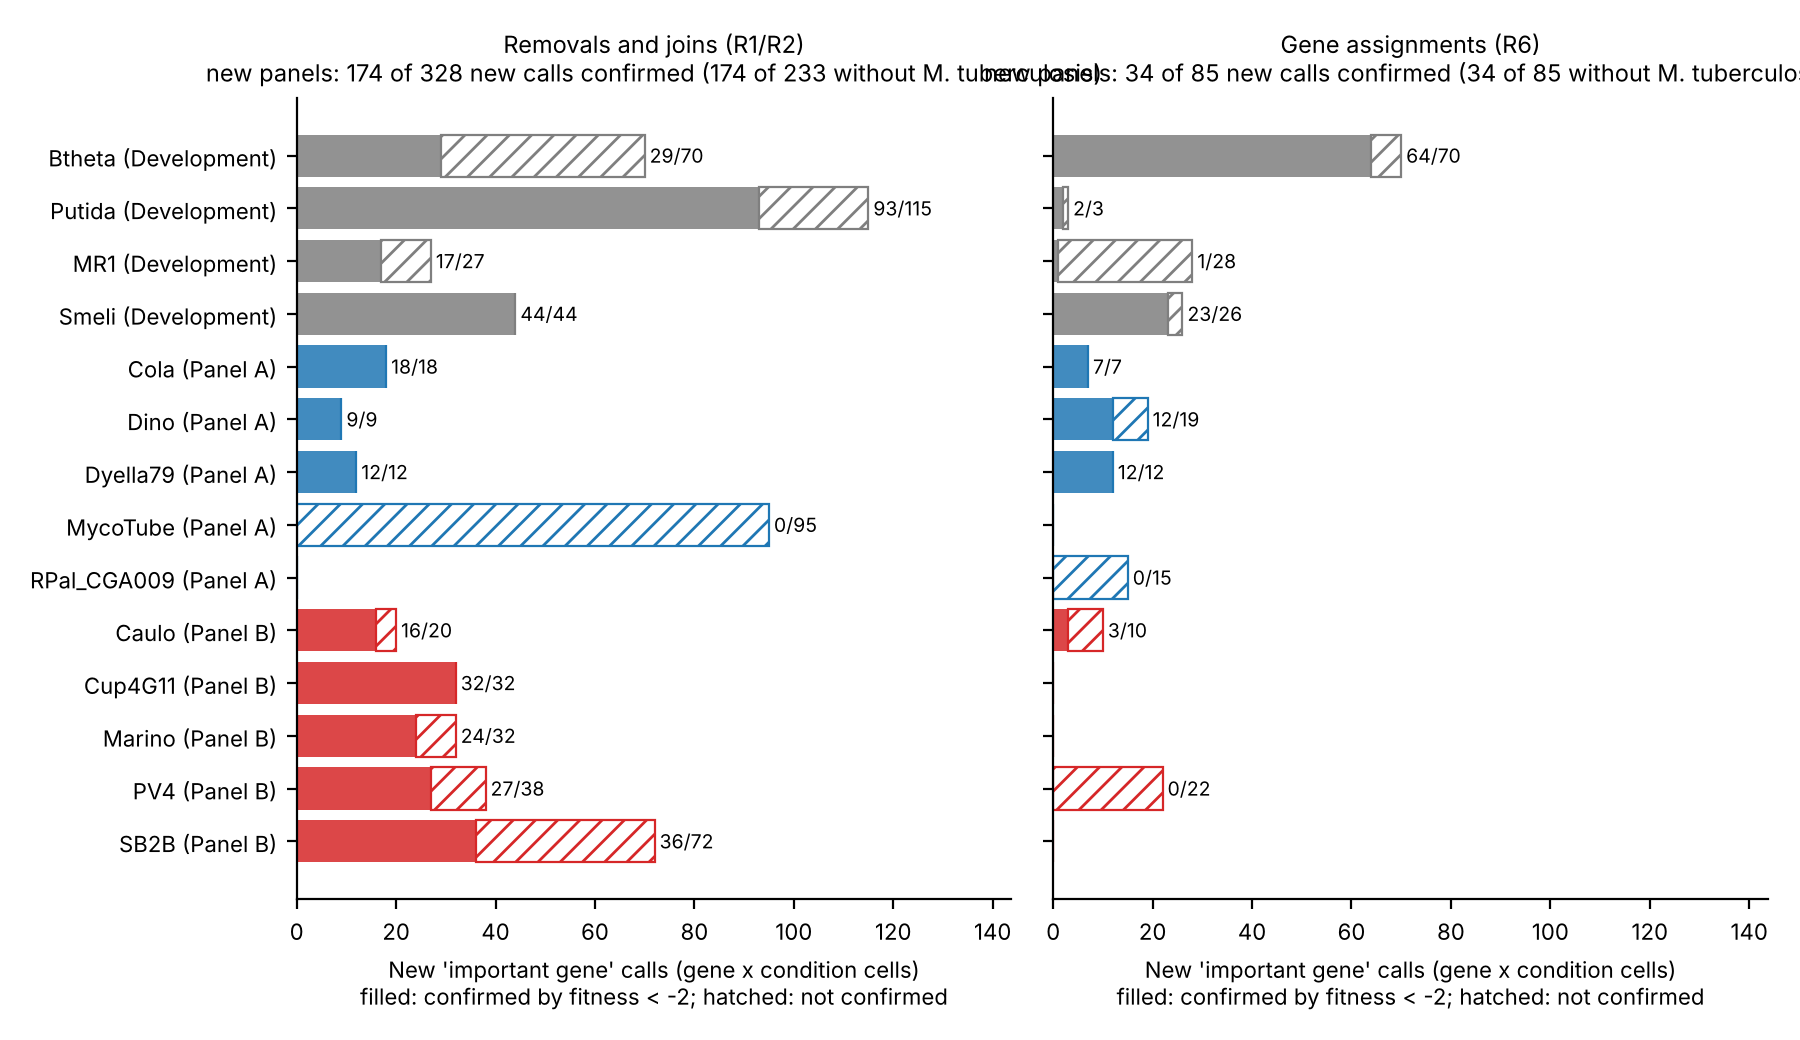
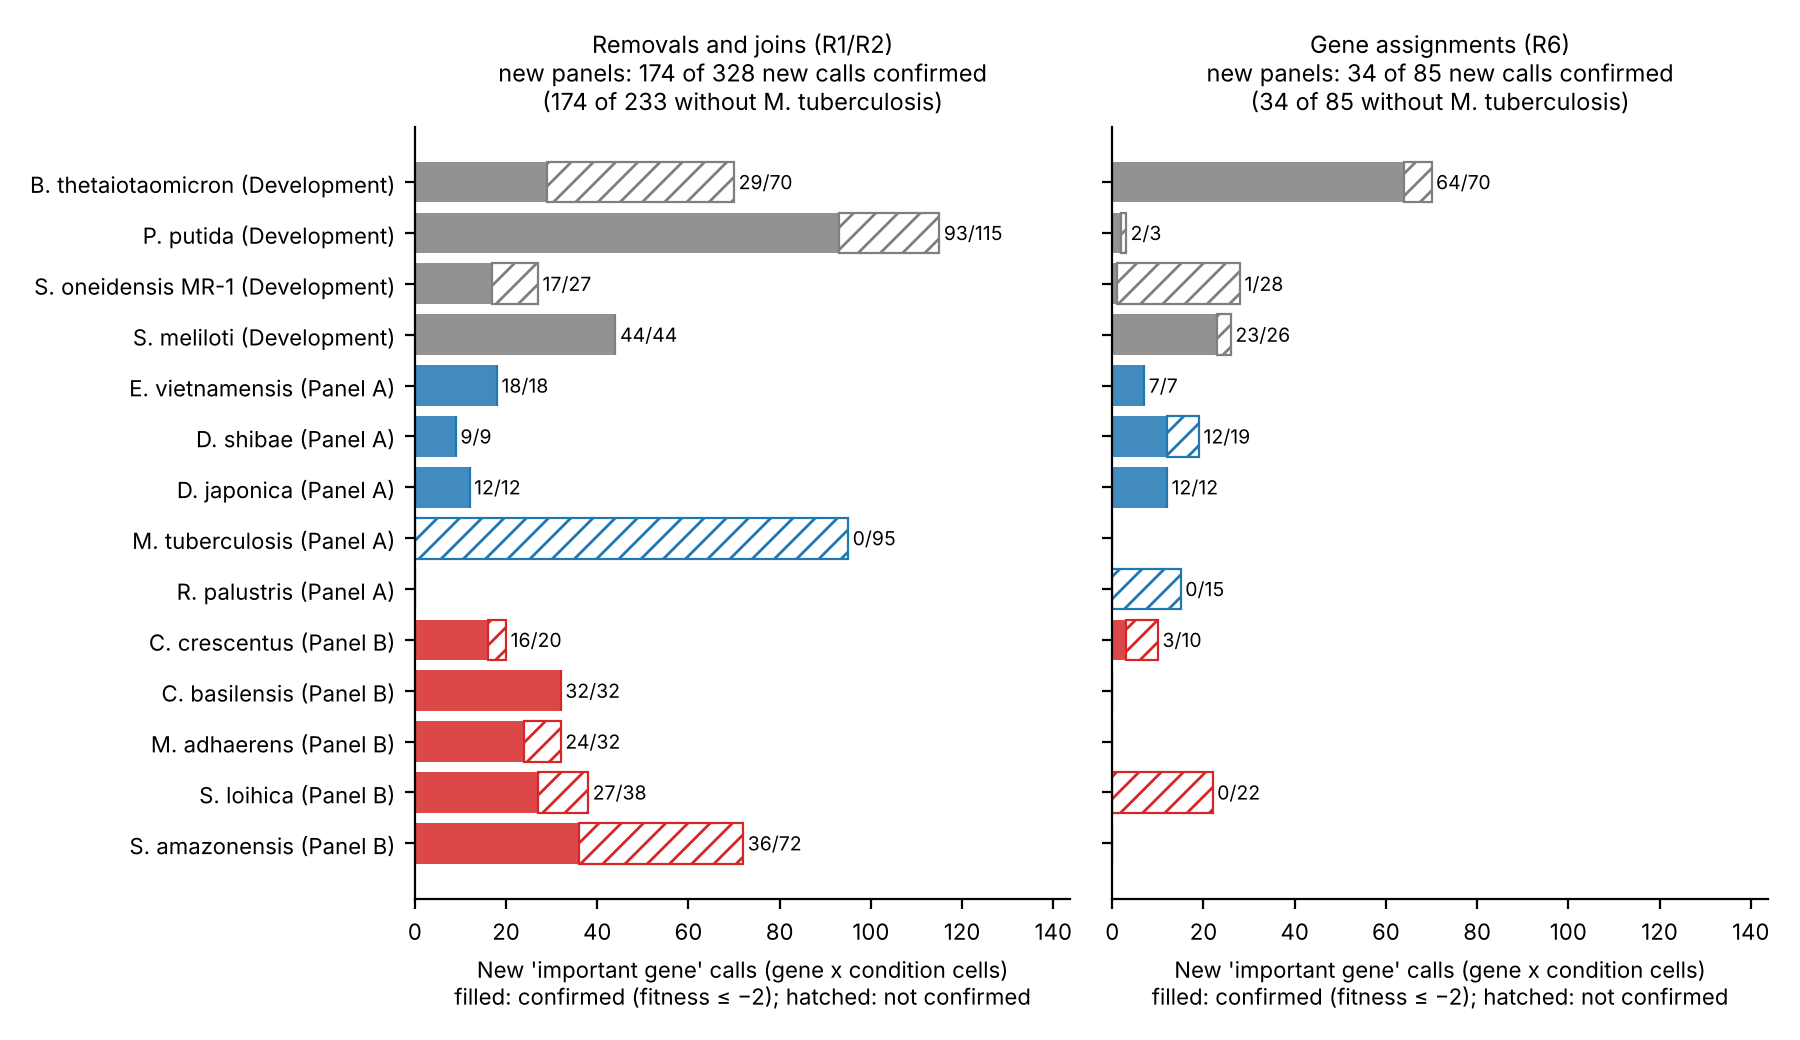
Paper 1 figures: Figure 2 redrawn with the shared colour scheme and organism means; Figure 4 titles no longer overlap
Claude-Session: https://claude.ai/code/session_01KMQQfhQKTXpVja2mGgGu3T

diff --git a/scripts/plot_transfer_paired.py b/scripts/plot_transfer_paired.py
@@ -1,0 +1,109 @@
+"""Figure 2 of the benchmark paper: per-organism paired MCC differences for H1 (U' vs B0) and H2 (M vs U').
+
+Reads only existing results: results/transfer_v1/<role>/paired.json (per-organism differences and gene-bootstrap
+intervals) and aggregate_union.json (organism means and organism-bootstrap intervals), plus the pooled file for
+panels A and B. Colours match Figures 1, 3 and 4 (development grey, panel A blue, panel B red).
+
+Usage: python scripts/plot_transfer_paired.py   -> docs/paper/fig2_paired_differences.png
+"""
+from __future__ import annotations
+
+import json
+import os
+
+ROOT = os.path.dirname(os.path.dirname(os.path.abspath(__file__)))
+R = os.path.join(ROOT, "results", "transfer_v1")
+PHASES = [("development", "Development", ["MR1", "Btheta", "Smeli", "Putida"]),
+          ("evaluation_panel_A", "Panel A", ["Cola", "Dino", "Dyella79", "MycoTube", "RPal_CGA009"]),
+          ("evaluation_panel_B", "Panel B", ["Caulo", "Cup4G11", "Marino", "PV4", "SB2B"])]
+NAMES = {"MR1": "S. oneidensis MR-1", "Btheta": "B. thetaiotaomicron", "Smeli": "S. meliloti", "Putida": "P. putida",
+         "Cola": "E. vietnamensis", "Dino": "D. shibae", "Dyella79": "D. japonica", "MycoTube": "M. tuberculosis",
+         "RPal_CGA009": "R. palustris", "Caulo": "C. crescentus", "Cup4G11": "C. basilensis", "Marino": "M. adhaerens",
+         "PV4": "S. loihica", "SB2B": "S. amazonensis"}
+COLOURS = {"Development": "#7f7f7f", "Panel A": "#1f77b4", "Panel B": "#d62728"}
+PAIRS = [(("B0", "UNQ"), "H1: automatic rules (U′ vs B0)"), (("UNQ", "M"), "H2: blind AI curation (M vs U′)")]
+
+
+def load(path):
+    with open(path) as fh:
+        return json.load(fh)
+
+
+def main() -> None:
+    import matplotlib
+    matplotlib.use("Agg")
+    import matplotlib.pyplot as plt
+
+    rows = []      # (label, phase, kind, {pair: (delta, lo, hi)})
+    for role, phase, orgs in PHASES:
+        paired = load(os.path.join(R, role, "paired.json"))
+        agg = load(os.path.join(R, role, "aggregate_union.json"))
+        for org in orgs:
+            vals = {}
+            for (a, b), _ in PAIRS:
+                hit = [p for p in paired if p["org"] == org and p["A"] == a and p["B"] == b]
+                if hit:
+                    vals[(a, b)] = (hit[0]["union_delta"], *hit[0]["union_delta_ci95"])
+            rows.append((NAMES[org], phase, "organism", vals))
+        means = {}
+        for (a, b), _ in PAIRS:
+            p = [q for q in agg["pairs"] if q["A"] == a and q["B"] == b][0]
+            means[(a, b)] = (p["mean_delta"], *p["organism_bootstrap_ci95"])
+        rows.append((f"{phase}: mean of {len(orgs)}", phase, "mean", means))
+    pooled = load(os.path.join(R, "pooled_panels_A_B_aggregate_union.json"))
+    pm = {}
+    for (a, b), _ in PAIRS:
+        p = [q for q in pooled["pairs"] if q["A"] == a and q["B"] == b][0]
+        pm[(a, b)] = (p["mean_delta"], *p["organism_bootstrap_ci95"])
+    rows.append(("Panels A + B: mean of 10", "Pooled", "pooled", pm))
+
+    fig, axes = plt.subplots(1, 2, figsize=(10, 7.2), sharey=True)
+    n = len(rows)
+    ypos = []
+    y = 0.0
+    for i, (_, phase, kind, _) in enumerate(rows):
+        if i and rows[i - 1][1] != phase:
+            y += 0.6
+        ypos.append(y)
+        y += 1
+    for ax, (pair, title) in zip(axes, PAIRS):
+        for (label, phase, kind, vals), yy in zip(rows, ypos):
+            if pair not in vals:
+                continue
+            d, lo, hi = vals[pair]
+            colour = "black" if kind == "pooled" else COLOURS[phase]
+            marker = "o" if kind == "organism" else "D"
+            size = 5 if kind == "organism" else 7
+            ax.plot([lo, hi], [yy, yy], color=colour, lw=1.4 if kind == "organism" else 2.2,
+                    alpha=0.85 if kind == "organism" else 1)
+            ax.plot([d], [yy], marker=marker, color=colour, ms=size)
+        ax.axvline(0, color="black", lw=0.8)
+        ax.set_title(title, fontsize=10)
+        ax.set_xlabel("Paired MCC difference, union of genes\n(organisms: 95% gene bootstrap; means: 95% organism bootstrap)",
+                      fontsize=8.5)
+        ax.tick_params(axis="x", labelsize=8)
+        for s in ("top", "right"):
+            ax.spines[s].set_visible(False)
+    axes[0].set_yticks(ypos)
+    labels = []
+    for label, phase, kind, _ in rows:
+        labels.append(label if kind != "organism" else label)
+    axes[0].set_yticklabels(labels, fontsize=8.5)
+    for tick, (label, phase, kind, _) in zip(axes[0].get_yticklabels(), rows):
+        if kind == "organism":
+            tick.set_fontstyle("italic")
+        else:
+            tick.set_fontweight("bold")
+        tick.set_color("black" if kind == "pooled" else COLOURS[phase])
+    axes[0].invert_yaxis()
+    fig.text(0.01, 0.01, "Not evaluable under the frozen rules: D. suillum (panel A, gap-fill), "
+             "D. vulgaris Miyazaki F (panel B, reference condition). Development organisms are retrospective.",
+             fontsize=7.5, color="#555555")
+    fig.tight_layout(rect=(0, 0.03, 1, 1))
+    out = os.path.join(ROOT, "docs", "paper", "fig2_paired_differences.png")
+    fig.savefig(out, dpi=200)
+    print(out)
+
+
+if __name__ == "__main__":
+    main()

diff --git a/scripts/plot_curation_precision.py b/scripts/plot_curation_precision.py
@@ -74,12 +74,16 @@ def main() -> None:
         tot_n = sum(t["new_calls"] for t in table if t["arm"] == arm and t["phase"] != "Development")
         tot_k = sum(t["new_confirmed"] for t in table if t["arm"] == arm and t["phase"] != "Development")
         no_tb = sum(t["new_calls"] for t in table if t["arm"] == arm and t["phase"] != "Development" and t["org"] != "MycoTube")
-        ax.set_title(f"{name}\nnew panels: {tot_k} of {tot_n} new calls confirmed ({tot_k} of {no_tb} without M. tuberculosis)",
+        ax.set_title(f"{name}\nnew panels: {tot_k} of {tot_n} new calls confirmed\n({tot_k} of {no_tb} without M. tuberculosis)",
                      fontsize=8.5)
-        ax.set_xlabel("New 'important gene' calls (gene x condition cells)\nfilled: confirmed by fitness < -2; hatched: not confirmed", fontsize=8)
+        ax.set_xlabel("New 'important gene' calls (gene x condition cells)\nfilled: confirmed (fitness ≤ −2); hatched: not confirmed", fontsize=8)
         ax.tick_params(axis="x", labelsize=8)
     axes[0].set_yticks(list(ypos.values()))
-    axes[0].set_yticklabels([f"{org} ({label})" for label, org in ypos], fontsize=8)
+    names = {"MR1": "S. oneidensis MR-1", "Btheta": "B. thetaiotaomicron", "Smeli": "S. meliloti", "Putida": "P. putida",
+             "Cola": "E. vietnamensis", "Dino": "D. shibae", "Dyella79": "D. japonica", "MycoTube": "M. tuberculosis",
+             "RPal_CGA009": "R. palustris", "Caulo": "C. crescentus", "Cup4G11": "C. basilensis", "Marino": "M. adhaerens",
+             "PV4": "S. loihica", "SB2B": "S. amazonensis"}
+    axes[0].set_yticklabels([f"{names.get(org, org)} ({label})" for label, org in ypos], fontsize=8)
     xmax = max(t["new_calls"] for t in table if t["arm"] in ("M_R1R2", "M_R6")) * 1.25
     for ax in axes:
         ax.set_xlim(0, xmax)
